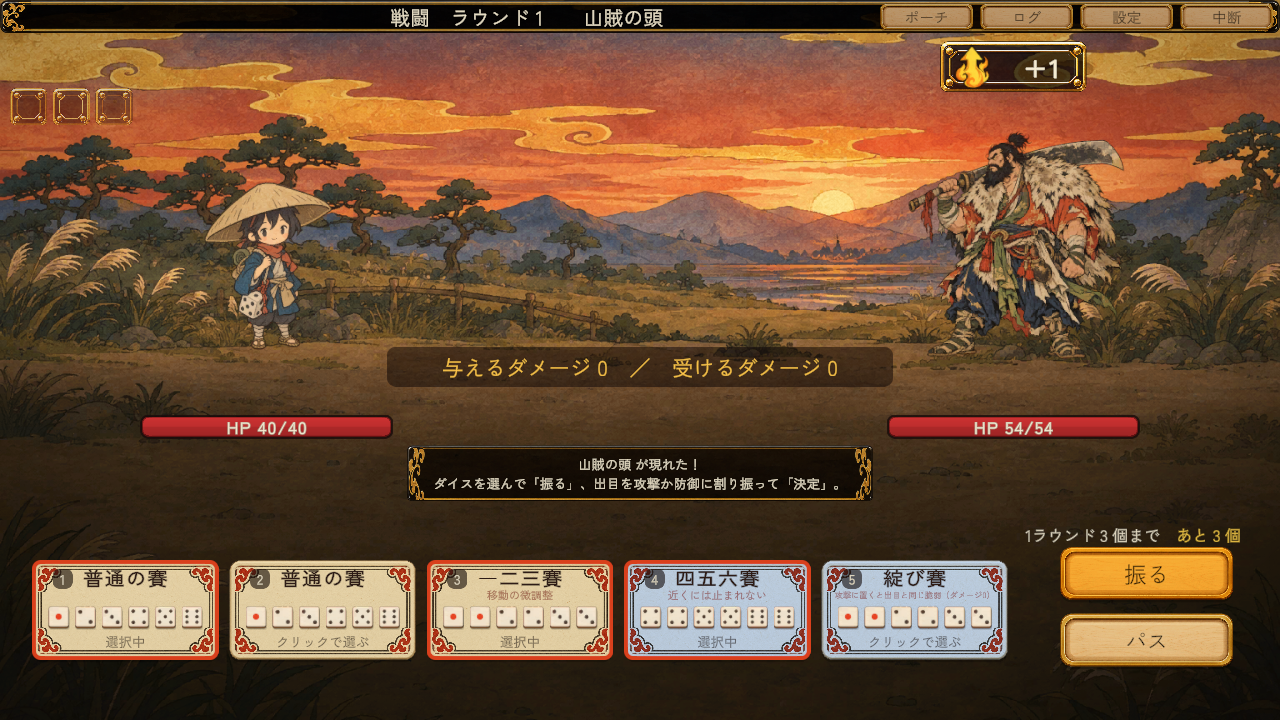
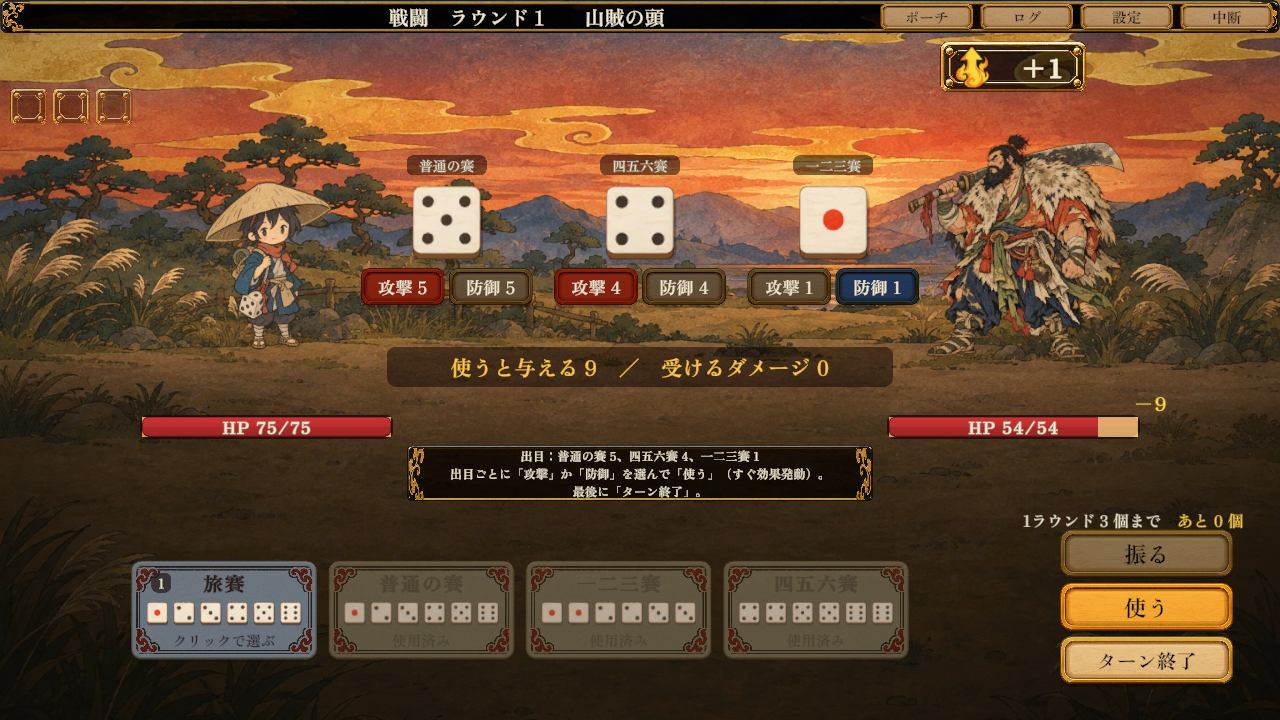
遊び方の絵を今の戦闘画面で撮り直し・遊び方の説明文のはみ出しを直す
開発者の要望：遊び方の画面の絵が古い画面（「決定」「パス」のボタン）のままだった
- howto_roll.png を撮り直し：山賊の頭との戦闘で3個振り、5と4を攻撃・1を防御に割り振って、「使う」「ターン終了」が見える状態（1280×720）
- 「ダイスの振り方」のページの説明文が、枠の下にはみ出して「次へ」に重なっていたので、字が自動で縮むように（ほかのページも同じように）
- 戦闘で振ったダイスの名前に暗い帯を敷く（明るい夕焼けの空に重なると読めなかった）
- 引き継ぎ資料に追記

diff --git a/Assets/_Project/Scripts/UI/HowToView.cs b/Assets/_Project/Scripts/UI/HowToView.cs
@@ -156,13 +156,19 @@ namespace SaiNoMichi.UI
                 var picture = UIFactory.Picture("Picture", body, art.howToRoll, new Vector2(720, 405), new Vector2(-280, 60), Color.white);
                 picture.preserveAspect = true;
                 picture.raycastTarget = false;
-                UIFactory.Text("Text", body, text, 26, PaperColor, new Vector2(540, 600), new Vector2(370, 0), TextAlignmentOptions.TopLeft);
+                var rollText = UIFactory.Text("Text", body, text, 26, PaperColor, new Vector2(540, 600), new Vector2(370, 0), TextAlignmentOptions.TopLeft);
+                rollText.enableAutoSizing = true; // 「使う」「ターン終了」の説明を足したら枠の下にはみ出していた
+                rollText.fontSizeMax = 26;
+                rollText.fontSizeMin = 16;
                 return;
             }
 
             if (text != null)
             {
-                UIFactory.Text("Text", body, text, 30, PaperColor, new Vector2(1240, 600), Vector2.zero, TextAlignmentOptions.TopLeft);
+                var pageBody = UIFactory.Text("Text", body, text, 30, PaperColor, new Vector2(1240, 600), Vector2.zero, TextAlignmentOptions.TopLeft);
+                pageBody.enableAutoSizing = true; // 長いページでも枠に収める
+                pageBody.fontSizeMax = 30;
+                pageBody.fontSizeMin = 18;
                 return;
             }
 

diff --git a/Assets/_Project/Scripts/UI/BattleView.cs b/Assets/_Project/Scripts/UI/BattleView.cs
@@ -1200,6 +1200,10 @@ namespace SaiNoMichi.UI
                 bool hiddenName = i >= n - hiddenRolled; // 転がっている間は、裏返しの数字も伏せる
                 var nameText = UIFactory.Text($"RolledName{i}", rolledRoot, r.dice.DisplayName + (r.inverted ? "（裏返し）" : ""), 24, PaperColor, new Vector2(280, 30), new Vector2(x, 122));
                 nameText.outlineWidth = 0.14f;
+                // 明るい空（夕焼けの背景など）に重なっても読めるよう、名前の後ろに半透明の暗い帯を敷く
+                var nameBack = UIFactory.Panel($"RolledNameBack{i}", rolledRoot, new Vector2(Mathf.Min(280f, nameText.GetPreferredValues(nameText.text).x + 24f), 30f), new Vector2(x, 122), new Color(0.06f, 0.04f, 0.03f, 0.78f));
+                nameBack.raycastTarget = false;
+                nameBack.transform.SetSiblingIndex(nameText.transform.GetSiblingIndex());
                 nameText.enableAutoSizing = true;
                 nameText.fontSizeMax = 24;
                 nameText.fontSizeMin = 14;

diff --git a/Docs/handoff-2026-10-16.md b/Docs/handoff-2026-10-16.md
@@ -145,6 +145,7 @@
 | #223 | ダイスの見直し：似たダイス10種の作り替え・四面〜二十面・呼び戻し賽・育ち賽・分身賽・二度振り賽・呪い4種・レア度の並び直し・名前の重なり5組の改名・敵の HP +13% |
 | #224 | サイコロが描かれていた挿絵10枚・アイコン4つを、サイコロを描かない絵に描き直し |
 | #225 | 表示崩れの修正（スターター画面・旅人の説明・報酬の説明・次の層の知らせ・ポーチの一覧・お守りの使える場面） |
+| #227 | 遊び方の絵（`howto_roll.png`）を今の戦闘画面で撮り直し・遊び方の説明文のはみ出しを直す・戦闘で振ったダイスの名前に暗い帯 |
 
 - ダイスは全 **107 種**。報酬に出るダイスはコモン 39・アンコモン 28・レア 18（始めのダイスも含む）。仕様書の「4. ダイス一覧」はデータから作り直した。
 - 6面以外：`DiceInstance` の面の数はダイスごと（`DiceData.faceValues` の長さ。2〜20）。十二面・二十面の札は `DiceCard.FaceRangeLabel` で「十二面 1〜12」と字で出す。四面〜二十面は鍛冶の画面が6面前提なので `cannotForge`。
@@ -155,7 +156,7 @@
   - 描き直した挿絵：流しの職人・落ちている賽・旅団の宴・旅の商人・合わせ賽の鍛冶師・鬼の賽勝負・鬼の落とし物・玉虫の厨子・賽の付喪神・妖刀の祠
   - 描き直したアイコン：二の鼓・双六の駒・振り直しの巻物・三つ目の賽筒
   - そのままにしたもの：丁の札・半の札（平らな目だけで崩れていない）、博徒・細工師の絵（手の中の小さなサイコロで、ほとんど見えない）、マス「賭場」の絵（目のない白い箱）
-- 気づいたこと：遊び方の画面の絵（`Art/howto_roll.png`）は古い画面の写真で、「決定」「パス」のボタンが写っている（今は「使う」「ターン終了」）。撮り直したほうがよい。
+- 遊び方の画面の絵（`Art/howto_roll.png`）は古い画面の写真だったので、今の戦闘画面（3個振って攻撃・防御に割り振り、「使う」「ターン終了」が見える状態）で撮り直した（#227）。
 - WebGL：#225（表示崩れの修正）まで入れて 21:27 に作り直した（data.gz 約 65MB。「エラー 1」は MCP の通信のログで、ゲームとは関係ない）。unityroom にはこれを上げる（6 章の 15:25 版より新しい）。
 - #225：スターター画面の題字と説明の重なり、旅人の説明のはみ出し、報酬・次の層の知らせ・ポーチの一覧の文の収まり、お守りの「使える場面」の説明を直した。
 - 落ちている賽の挿絵は2案から「石の上で光る巾着」を、鬼の賽勝負は「伏せた壺振りの壺」を選んだ。
